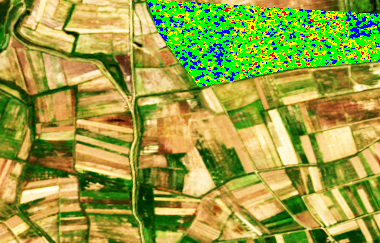
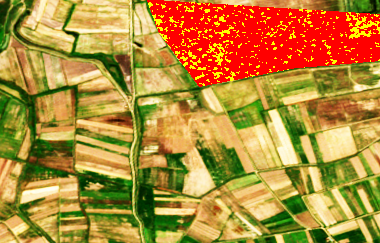
finish

Changed region(s): [[0.3763, 0.0, 1.0, 0.3745]]

diff --git a/client2/src/layouts/home/features/index.tsx b/client2/src/layouts/home/features/index.tsx
@@ -42,7 +42,7 @@ export default function Features() {
                     <div className="grid grid-cols-1 sm:grid-cols-2 lg:grid-cols-3 gap-6 lg:gap-10 h-auto">
                         
                         {features.map((feature: FeautureItem) => (
-                            <div className="bg-900 text-400 p-4 xs:p-10 flex flex-col gap-y-2  xs:gap-y-4 rounded items-center text-center h-auto">
+                            <div key={feature.id} className="bg-900 text-400 p-4 xs:p-10 flex flex-col gap-y-2  xs:gap-y-4 rounded items-center text-center h-auto">
                                 <span className="rounded-full flex items-center justify-center xs:w-20 xs:h-20 w-16 h-16 bg-100"><feature.icon size={isXs ? 50 : 40}/></span>
                                 <h4 className=" font-semibold text-500 text-xl xs:text-2xl">{feature.title}</h4>
                                 <p className="text-lg xs:text-xl">{feature.description}</p>

diff --git a/client2/src/layouts/farm/result-data/index.tsx b/client2/src/layouts/farm/result-data/index.tsx
@@ -44,7 +44,7 @@ export default function ResultData({ selectedLoc }: ResultDataProps) {
     totalWater: [],
     wps: [],
   });
-  const url = "164.92.253.215";
+  const url =  "164.92.253.215" 
   const getSpecImage = async () => {
     try {
       const response_1 = await axios.get(

diff --git a/server/api/models.py b/server/api/models.py
@@ -6,6 +6,7 @@ import torch
 import rasterio
 import json
 from shapely import Point, Polygon
+import geopandas as gpd
 from .utils.process_soil_moisture import (
     ANGLE,
     get_field_spec,
@@ -48,17 +49,6 @@ class Processor(models.Model):
         self.field_id = field_id
         self.save()
 
-    def get_spec(self) -> np.ndarray:
-        """The function to generate spectrum with soil moisture map and save"""
-        spec, src = get_field_spec(field_id=self.field_id)
-        sm_map, _, _= self.get_sm_map()
-        poly = load_geojson(field_id=self.field_id)     
-
-        spec_formatted = format_spec(spec=spec, sm_map=sm_map, poly=poly, src=src)
-        spec_image = convert2image(spec_formatted.transpose([1, 2, 0]))
-        imgPath =  os.path.join(current_dir, 'images', 'field_{}.png'.format(self.field_id))
-        spec_image.save(imgPath)
-        return  open(imgPath, 'rb')    
 
 
     def get_spec(self) -> np.ndarray:
@@ -114,7 +104,6 @@ class Processor(models.Model):
 
         spec, src = get_field_spec(field_id=self.field_id)
         sm_map, _, _= self.get_sm_map()
-        poly = load_geojson(field_id=self.field_id)     
 
         spec_formatted = format_spec(spec=spec, sm_map=sm_map, poly=poly, src=src)
         imgPath =  os.path.join(current_dir, 'images', 'field_{}.png'.format(self.field_id))
@@ -131,8 +120,9 @@ class Processor(models.Model):
         else:
             data['Problems'].append('Water distribution is normal')
             data['Recommendations'].append('No irrigation is needed')
-            
         return data
+    
+    
     def get_status_report(self, sm: np.ndarray) -> str:
         status = sm.mean()
       
@@ -166,8 +156,6 @@ class Processor(models.Model):
         lats = lats.reshape(-1)
 
         indexes = []
-        for i in range(lats.size):
-            point = Point([lons[i], lats[i]])
-            if point.within(poly):
-                indexes.append(i)
-        return np.array(indexes)
+        points = gpd.points_from_xy(lons, lats)
+        indexes = np.where(points.within(poly))[0]
+        return indexes

diff --git a/server/api/views.py b/server/api/views.py
@@ -8,53 +8,32 @@ from .models import Processor
 from django.http import FileResponse
 # Create your views here.
 
-@api_view(['GET'])
-def getRoutes(request):     
-    data = [
-        {
-            "name":"Murad",
-            "surname": "Masimli"
-        },
-        {
-            "name": "Mahammad",
-            "surname": "Mehdi"
-        }
-    ]
-    return Response(data)
+processor = Processor()
 
 @api_view(['GET'])
 def get_spec(request, pk):
-    processor = Processor()
     processor.update_field_id(pk)
     # Call the get_spec method
     file = processor.get_spec()
     response = FileResponse(file)
-
     # Optional: Set the content type and headers if needed
     response['Content-Type'] = 'image/png'
-
     return response
 
 @api_view(['GET'])
 def get_forecast(request, pk):
-
-    processor = Processor()
     processor.update_field_id(pk)
     forecast = processor.get_weather_forecast()
     return Response({'data': forecast}, status=status.HTTP_200_OK)
 
 @api_view(['GET'])
 def get_future(request, pk):
-
-    processor = Processor()
     processor.update_field_id(pk)
     future = processor.see_future()
     return Response({'data': future}, status=status.HTTP_200_OK)
 
 @api_view(['GET'])
 def get_insights(request, pk):
-
-    processor = Processor()
     processor.update_field_id(pk)
     insights = processor.get_insights()
     return Response({'data': insights}, status=status.HTTP_200_OK)

diff --git a/server/api/colors/color_mapping.py b/server/api/colors/color_mapping.py
@@ -2,25 +2,24 @@ import numpy as np
 
 def transform2rgb(sm: np.ndarray):
     if sm.ndim == 3:
-        sm = sm[0]
-
+         sm = sm[0]
     sm = sm[:, :, None].repeat(3, axis=-1)
     sm_map = sm.copy()
 
     # Red
-    indexes_0, indexes_1, _ = np.where(sm <= .1)
+    indexes_0, indexes_1, _ = np.where(sm <= .3)
     sm_map[indexes_0, indexes_1] = (255, 0, 0)
 
     # Yellow
-    indexes_0, indexes_1, _ = np.where((sm > .1) & (sm <= .2))
+    indexes_0, indexes_1, _ = np.where((sm > .3) & (sm <= .5))
     sm_map[indexes_0, indexes_1] = (255, 255, 0)
 
     # Green
-    indexes_0, indexes_1, _ = np.where((sm > .2) & (sm <= .3))
+    indexes_0, indexes_1, _ = np.where((sm > .5) & (sm <= .8))
     sm_map[indexes_0, indexes_1] = (0, 255, 0)
 
     # Blue
-    indexes_0, indexes_1, _ = np.where(sm > .3)
+    indexes_0, indexes_1, _ = np.where(sm > .8)
     sm_map[indexes_0, indexes_1] = (0, 0, 255)
     
     return sm_map.transpose([2, 0, 1])

diff --git a/server/api/utils/process_soil_moisture.py b/server/api/utils/process_soil_moisture.py
@@ -5,6 +5,7 @@ from ..preprocessing import free_outliers, min_max_scale, calibrate
 from shapely import Polygon, Point
 import numpy as np
 import geojson
+from geopandas import gpd
 ANGLE = 65 * np.pi / 180
 K = 1
 current_dir = os.path.dirname(os.path.dirname(__file__))
@@ -116,10 +117,7 @@ def get_hectares(soil_moisture_map: np.ndarray, poly: Polygon, src: rasterio.io.
     lons = lons.reshape(-1)
     lats = lats.reshape(-1)
 
-    index_count = 0
-    for i in range(lons.size):
-        point = Point([lons[i], lats[i]])
-        if point.within(poly):
-            index_count += 1
+    points = gpd.points_from_xy(lons, lats)
+    conds = points.within(poly)
     
-    return index_count * 100 / 10 ** 4
+    return conds.sum() * 100 / 10 ** 4

diff --git a/server/api/urls.py b/server/api/urls.py
@@ -1,7 +1,6 @@
 from django.urls import path
 from . import views
 urlpatterns = [
-    path('', views.getRoutes, name='routes'),
     path('spec/<int:pk>', views.get_spec, name='get_spec'),
     path('forecast/<int:pk>', views.get_forecast, name='get_forecast'),
     path('future/<int:pk>', views.get_future, name='get_future'),
